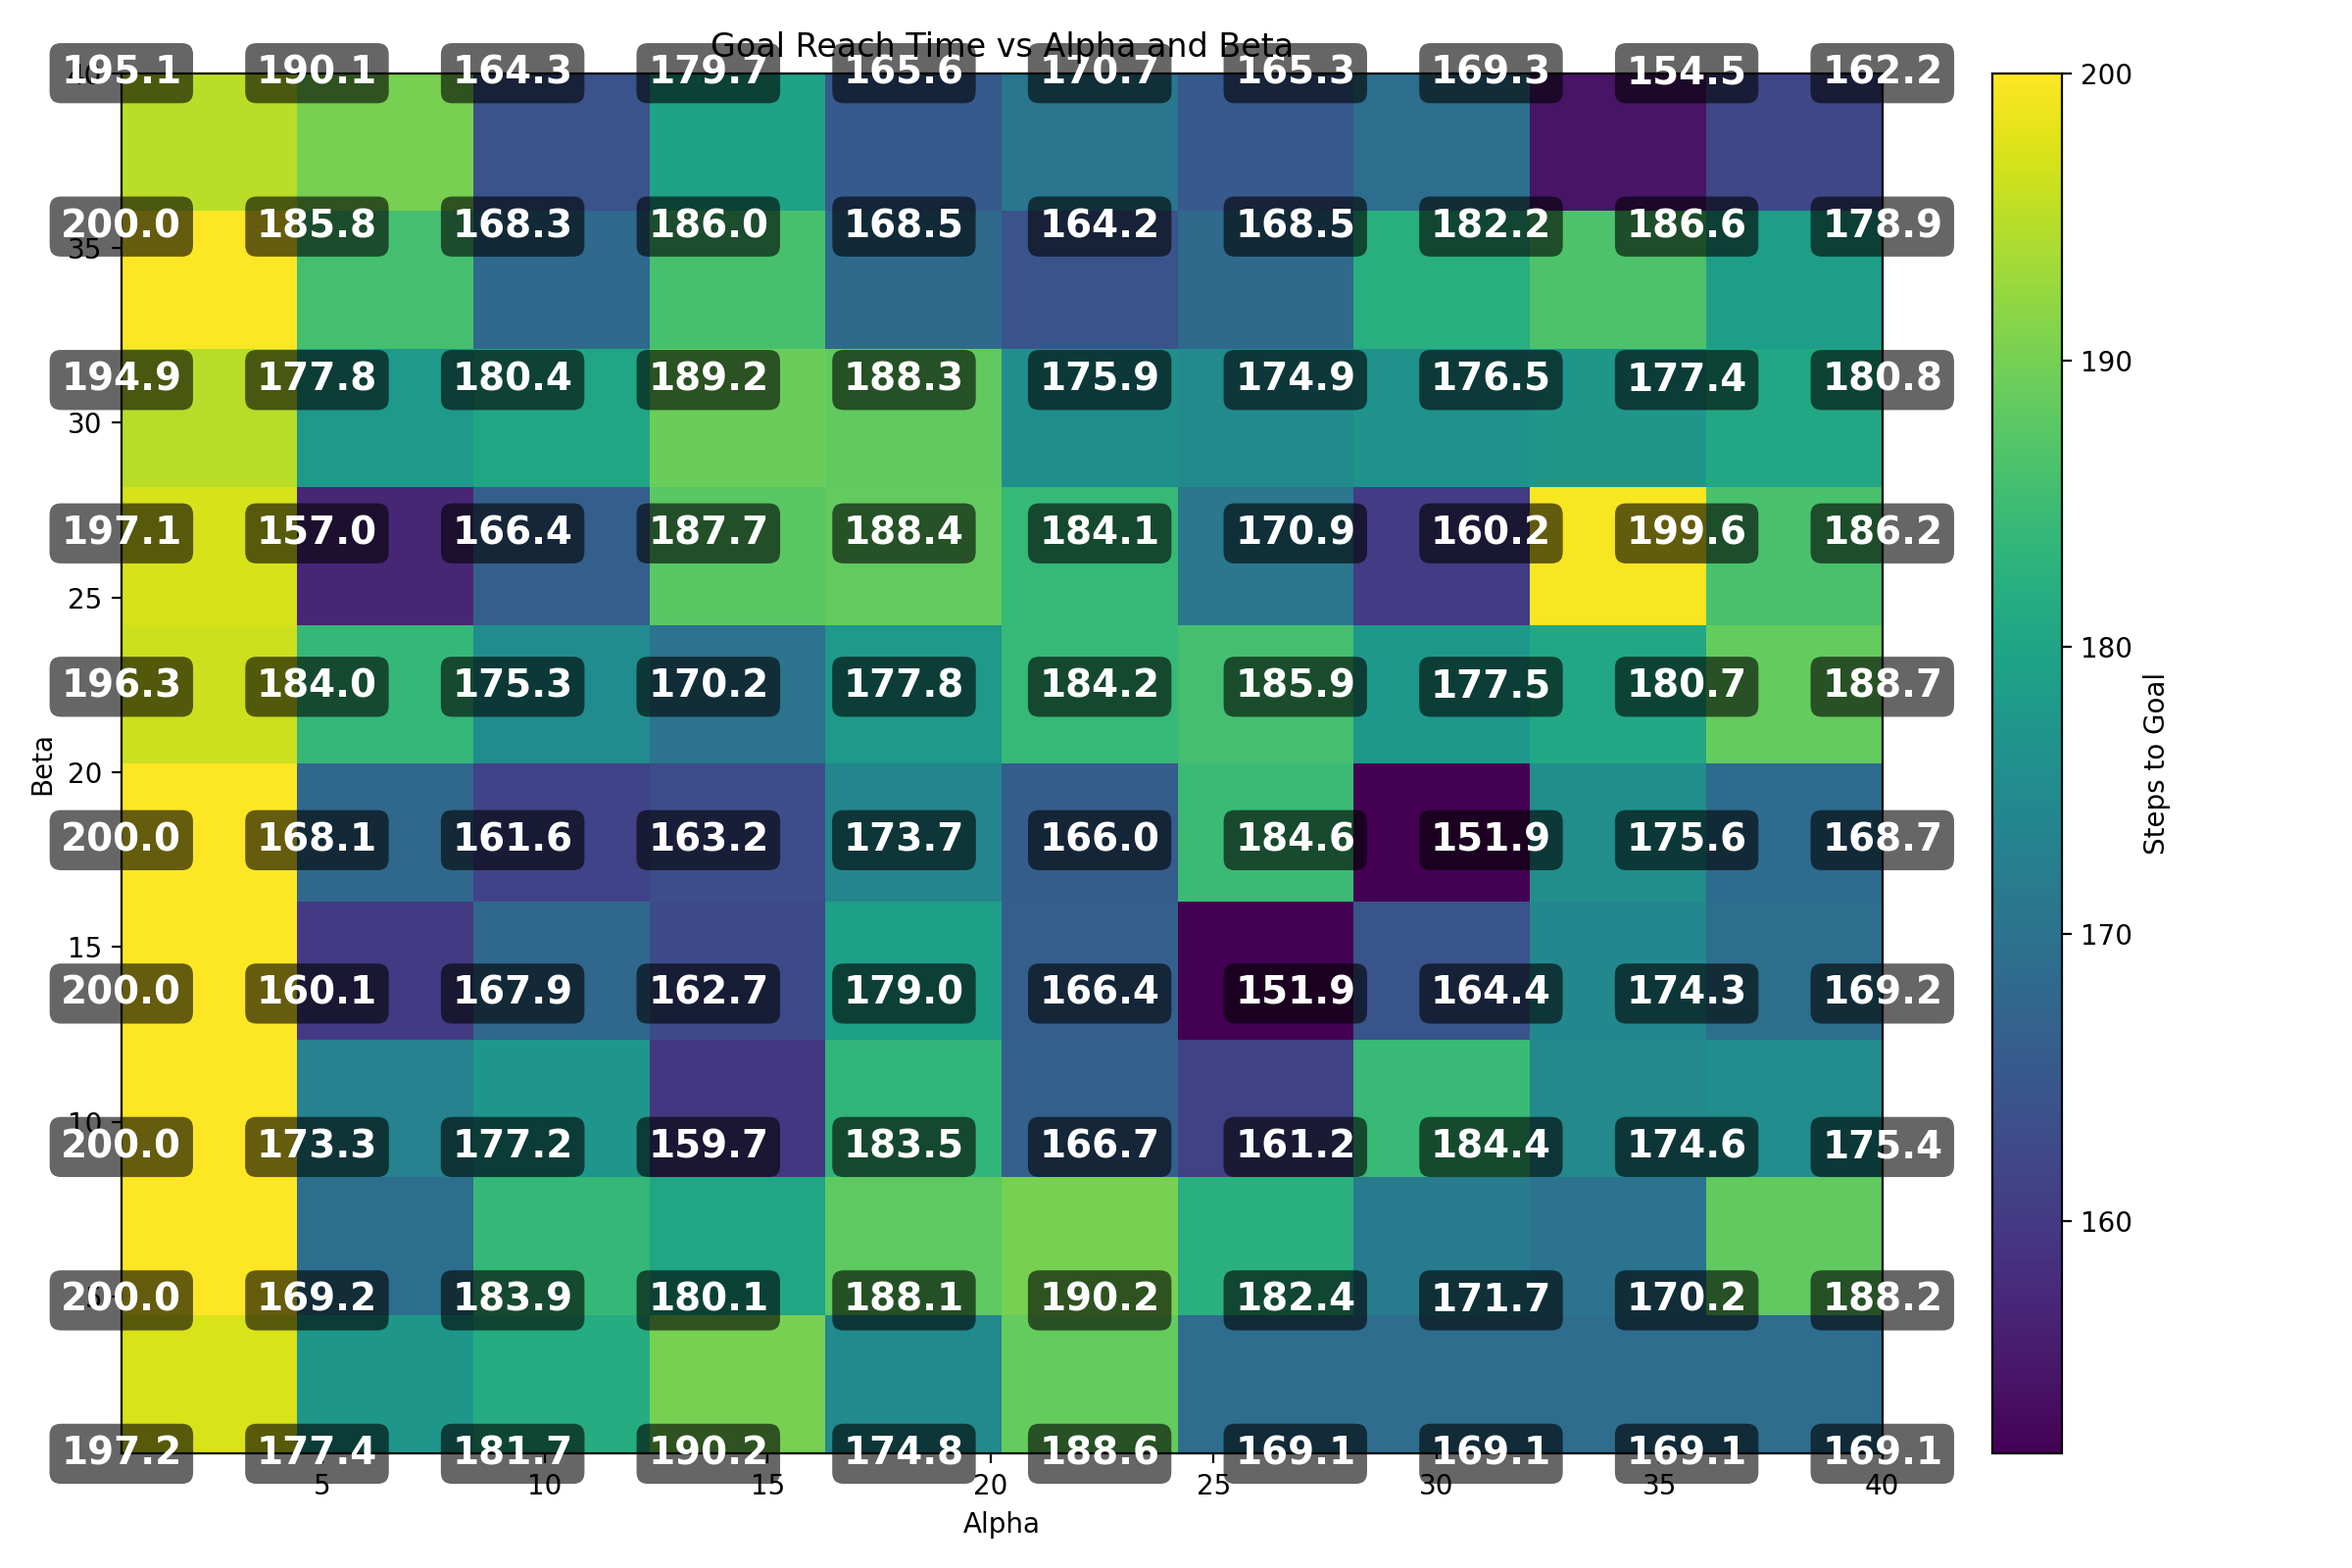
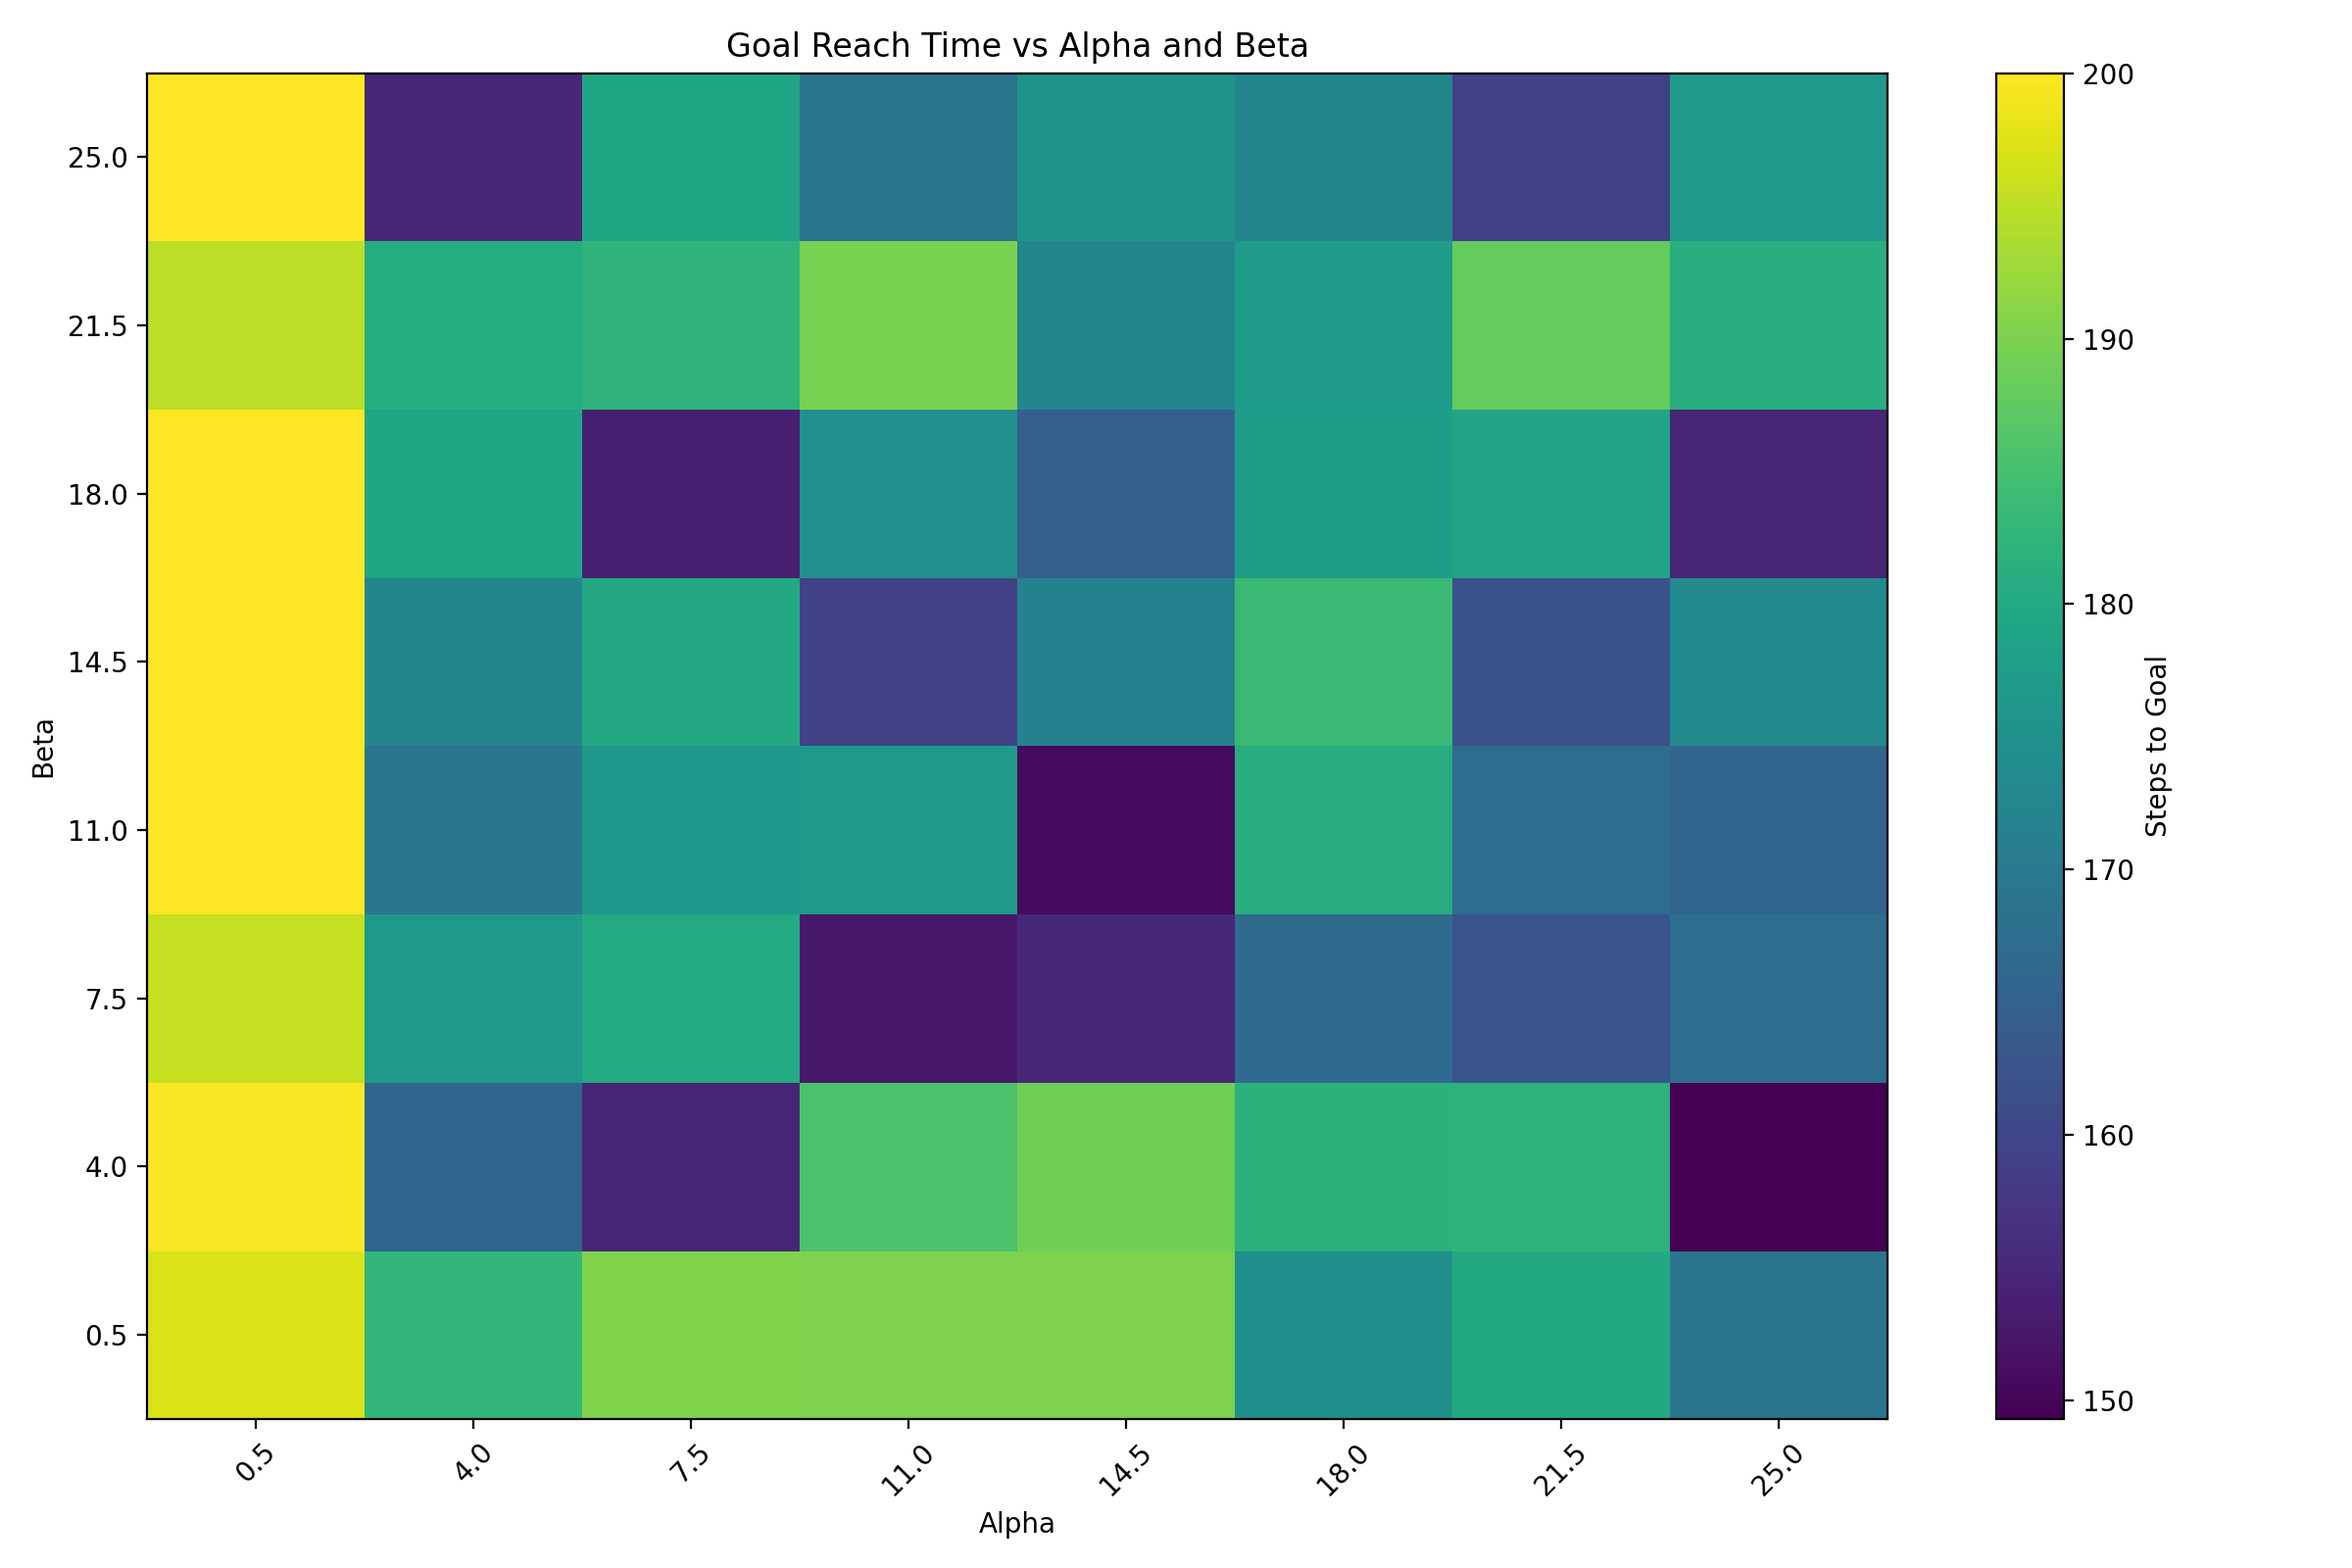
ss

diff --git a/visualization.py b/visualization.py
@@ -11,7 +11,9 @@ STEPS = 200
 DECAY = 1
 N = 10   # agent count 고정
 OBSTACLE_RATIO = 0.2  # 장애물 비율
-
+RUNS_PER_PAIR = 10  # seeds per (alpha,beta) pair
+ALPHA_SAMPLES = 8
+BETA_SAMPLES = 8
 def entropy(potential):
     p = potential.flatten()
     p = p / np.sum(p)
@@ -79,33 +81,54 @@ target_pos = (target_y, target_x)
 print(f"Map created with {np.sum(map_grid)} obstacles ({np.sum(map_grid)/(WIDTH*HEIGHT)*100:.1f}%)")
 print(f"Target position: {target_pos}")
 
-# alpha-beta sweep (2D)
-alphas = np.linspace(0.5, 40, 10)
-betas = np.linspace(0.5, 40, 10)
+# alpha-beta sweep (2D) -- reduced resolution for speed
+alphas = np.linspace(0.5, 25, ALPHA_SAMPLES)
+betas = np.linspace(0.5, 25, BETA_SAMPLES)
 
-Hs = np.zeros((len(betas), len(alphas)))
+Hs = np.zeros((len(betas), len(alphas)), dtype=np.float32)
+times = np.zeros_like(Hs)
+total_pairs = len(alphas) * len(betas)
+completed_pairs = 0
+cumulative_time = 0.0
 
 for i, b in enumerate(betas):
     for j, a in enumerate(alphas):
         vals = []
-        for s in range(10):
+        t0 = time.perf_counter()
+        for s in range(RUNS_PER_PAIR):
             result = run_sim(a, b, map_grid=map_grid, target_pos=target_pos, seed=s)
             vals.append(result)
         Hs[i, j] = np.mean(vals)
+        elapsed = time.perf_counter() - t0
+        times[i, j] = elapsed
+        # update progress counters and print a concise ETA line
+        completed_pairs += 1
+        cumulative_time += elapsed
+        avg_time = cumulative_time / completed_pairs
+        remaining = total_pairs - completed_pairs
+        eta_seconds = remaining * avg_time
+        pct = completed_pairs / total_pairs * 100
+        print(f"Progress {completed_pairs}/{total_pairs} ({pct:.1f}%) a={a:.2f} b={b:.2f} time={elapsed:.2f}s eta~{eta_seconds/60:.1f}min", flush=True)
 
-# plot heatmap with text annotations
+# plot heatmap (use sampled indices; tick labels show actual alpha/beta values)
 plt.figure(figsize=(12, 8))
-im = plt.imshow(Hs, extent=[alphas.min(), alphas.max(), betas.min(), betas.max()],
-                aspect='auto', origin='lower', cmap='viridis')
+im = plt.imshow(Hs, aspect='auto', origin='lower', cmap='viridis')
 plt.colorbar(im, label='Steps to Goal')
 
-# 각 셀에 숫자 표시
-for i in range(len(betas)):
-    for j in range(len(alphas)):
-        plt.text(alphas[j], betas[i], f'{Hs[i, j]:.1f}',
-                ha='center', va='center', color='white', fontsize=14, weight='bold',
-                bbox=dict(boxstyle='round,pad=0.3', facecolor='black', alpha=0.6, edgecolor='none'))
+# helper to select tick positions and labels (max 10 ticks)
+def _ticks_and_labels(arr, max_ticks=10):
+    n = len(arr)
+    if n <= max_ticks:
+        idx = np.arange(n)
+    else:
+        idx = np.linspace(0, n - 1, max_ticks, dtype=int)
+    labels = [f"{arr[k]:.1f}" for k in idx]
+    return idx, labels
 
+xticks, xticklabels = _ticks_and_labels(alphas)
+yticks, yticklabels = _ticks_and_labels(betas)
+plt.xticks(xticks, xticklabels, rotation=45)
+plt.yticks(yticks, yticklabels)
 plt.xlabel("Alpha")
 plt.ylabel("Beta")
 plt.title("Goal Reach Time vs Alpha and Beta")
@@ -114,6 +137,39 @@ plt.savefig("goal_reach_time_alpha_beta.png", dpi=200)
 plt.close()
 
 print("Heatmap saved: goal_reach_time_alpha_beta.png")
+
+# Save results as CSV (long format)
+import csv
+with open('results.csv', 'w', newline='') as f:
+    writer = csv.writer(f)
+    writer.writerow(['alpha', 'beta', 'mean_steps', 'time_sec'])
+    for i, b in enumerate(betas):
+        for j, a in enumerate(alphas):
+            writer.writerow([f"{a:.6f}", f"{b:.6f}", f"{Hs[i,j]:.6f}", f"{times[i,j]:.6f}"])
+
+# Save a PNG table (rows: beta, cols: alpha) for quick visual lookup
+fig, ax = plt.subplots(figsize=(max(8, ALPHA_SAMPLES * 0.6), max(6, BETA_SAMPLES * 0.4)))
+ax.axis('off')
+cell_text = [[f"{v:.1f}" for v in row] for row in Hs]
+row_labels = [f"{b:.1f}" for b in betas]
+col_labels = [f"{a:.1f}" for a in alphas]
+the_table = ax.table(cellText=cell_text, rowLabels=row_labels, colLabels=col_labels, loc='center')
+the_table.auto_set_font_size(False)
+the_table.set_fontsize(8)
+the_table.scale(1, 1.2)
+plt.title('Mean Steps Table (rows: beta, cols: alpha)')
+plt.tight_layout()
+plt.savefig('results_table.png', dpi=200)
+plt.close()
+
+print('Results saved: results.csv, results_table.png')
+
+# 저장: 배열로 결과 확인 가능하게 함
+np.save("Hs.npy", Hs)
+np.save("alphas.npy", alphas)
+np.save("betas.npy", betas)
+np.save("times.npy", times)
+print("Arrays saved: Hs.npy, alphas.npy, betas.npy, times.npy")
 
 # =======================
 # 맵 시각화
